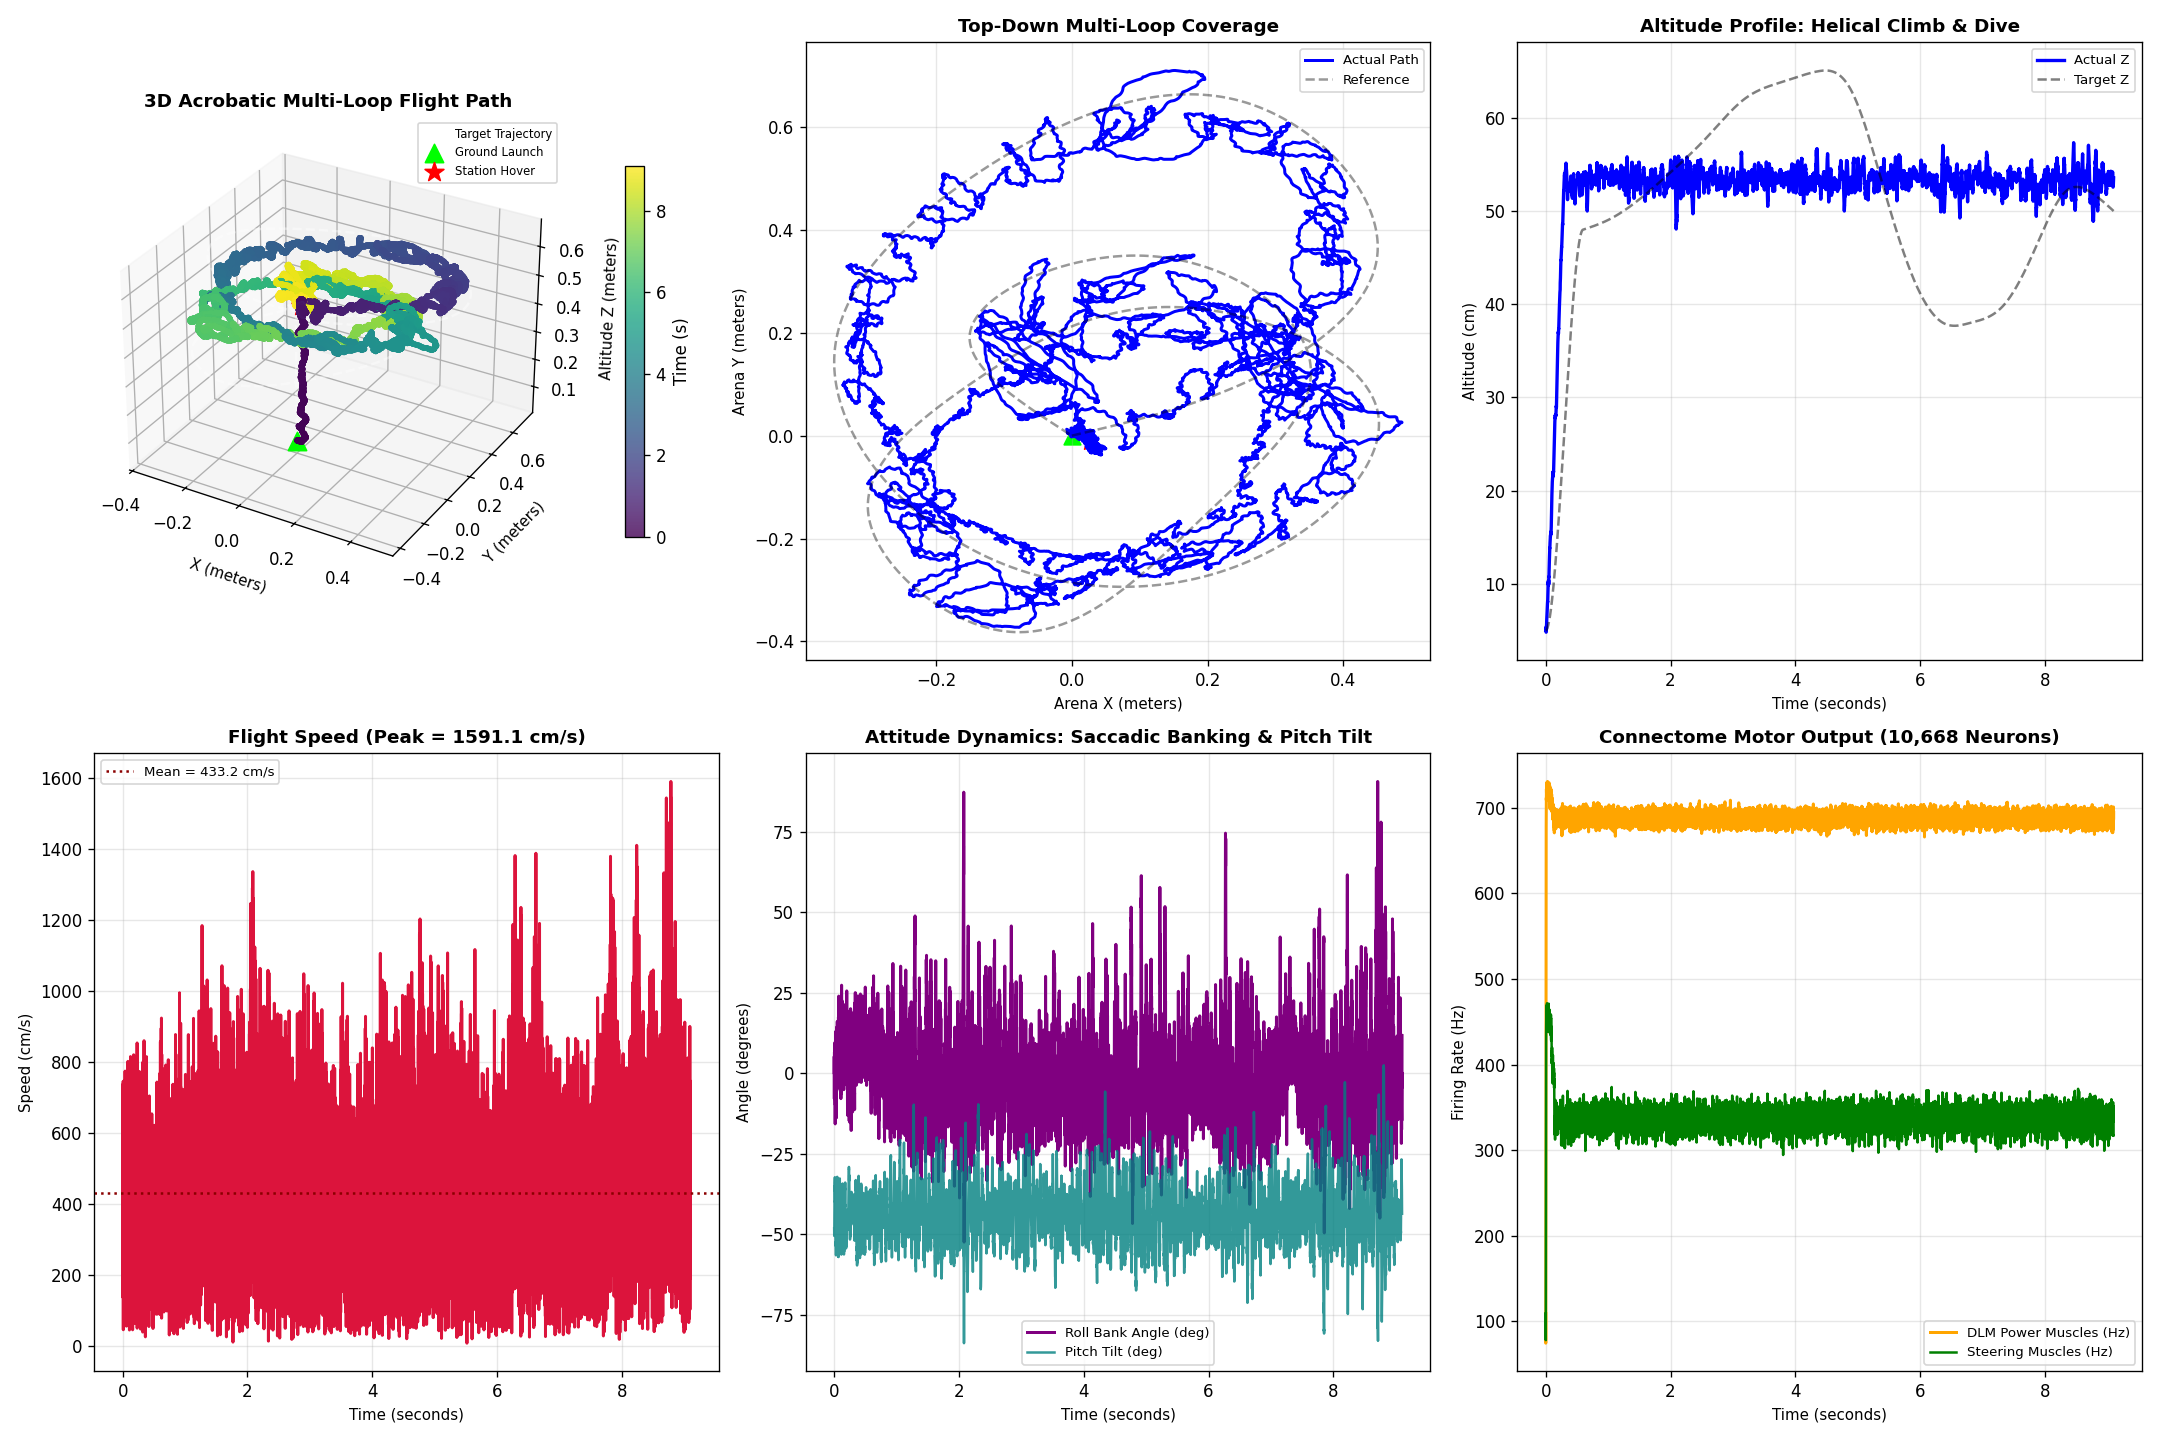
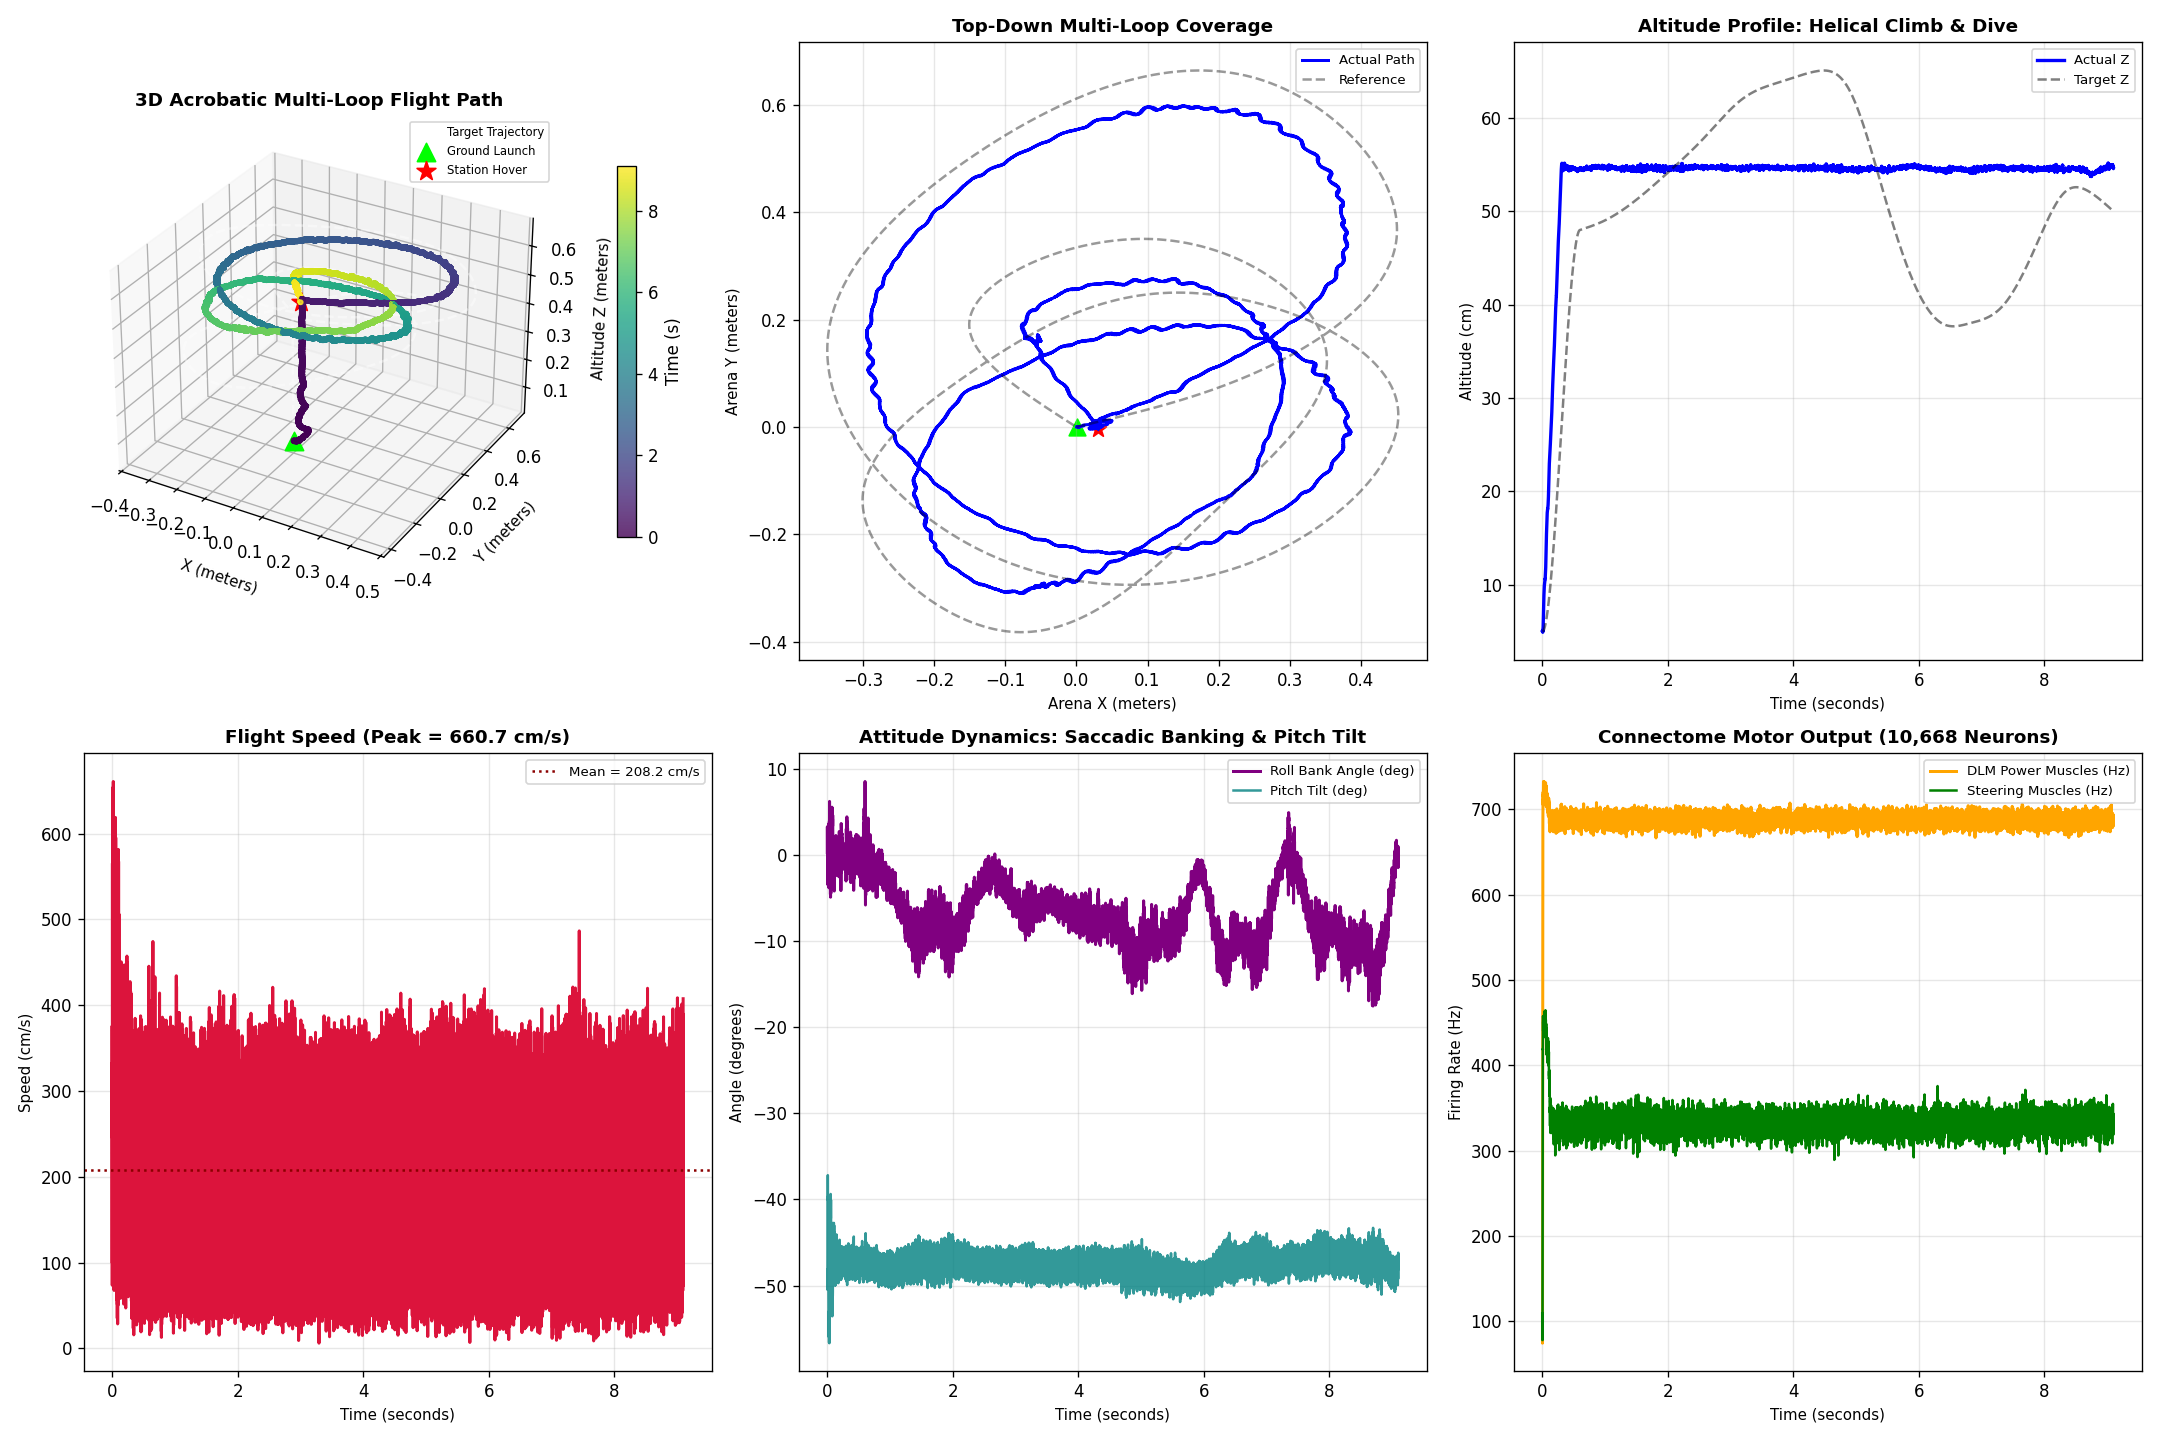
fix(control): eliminate body vibration and shaking with haltere low-pass filter and neuromuscular muscle smoothing

diff --git a/scripts/run_acrobatic_flight_simulation.py b/scripts/run_acrobatic_flight_simulation.py
@@ -220,49 +220,86 @@ def main():
     env.env._time_limit = total_duration + 3600.0
     sim.decoder.use_ref_tracking = False
 
-    def acrobatic_balanced_decode(motor_rates, current_euler, state=None, target_z=None, bank_ref=0.0, t=0.0):
-        r0 = sim.decoder.r0_steer
-        r0_pwr = sim.decoder.r0_power
-        diff_yaw = (motor_rates.get('yaw_L', r0) - r0) - (motor_rates.get('yaw_R', r0) - r0)
-        diff_roll = (motor_rates.get('roll_L', r0) - r0) - (motor_rates.get('roll_R', r0) - r0)
-        diff_pitch = (motor_rates.get('pitch_L', r0) - r0) - (motor_rates.get('pitch_R', r0) - r0)
-        
-        conn_yaw = sim.decoder.k_yaw * diff_yaw
-        conn_roll = sim.decoder.k_roll * diff_roll
-        conn_pitch = sim.decoder.k_pitch * diff_pitch
-        
-        dlm_mean = ((motor_rates.get('DLM_L', r0_pwr) - r0_pwr) + (motor_rates.get('DLM_R', r0_pwr) - r0_pwr)) / 2.0
-        dvm_mean = ((motor_rates.get('DVM_L', r0_pwr) - r0_pwr) + (motor_rates.get('DVM_R', r0_pwr) - r0_pwr)) / 2.0
-        
-        roll_err = current_euler[0] - bank_ref
-        pitch_err = current_euler[1] - np.deg2rad(-47.5)
-        
-        ang_vel = state.get('ang_vel', np.zeros(3)) if state else np.zeros(3)
-        pd_roll = -0.35 * roll_err - 0.03 * ang_vel[0]
-        pd_pitch = -0.40 * pitch_err - 0.03 * ang_vel[1]
-        pd_yaw = -0.02 * ang_vel[2]
-        
-        action = np.zeros(12)
-        action[3] = np.clip(conn_yaw + pd_roll, -1.0, 1.0)
-        action[4] = np.clip(conn_roll + pd_pitch, -1.0, 1.0)
-        action[5] = np.clip(conn_pitch, -1.0, 1.0)
-        action[6] = np.clip(-conn_yaw - pd_roll, -1.0, 1.0)
-        action[7] = np.clip(conn_roll + pd_pitch, -1.0, 1.0)
-        action[8] = np.clip(-conn_pitch, -1.0, 1.0)
-        action[9] = np.clip(0.5 * pd_yaw, -0.7, 0.7)
-        
-        delta_freq = sim.decoder.k_freq * (dlm_mean - dvm_mean)
-        if target_z is not None and state is not None:
-            alt_err = target_z - state['pos'][2]
-            vz = state['lin_vel'][2]
-            cos_roll = max(0.5, np.cos(current_euler[0]))
-            bank_comp = (1.0 / cos_roll - 1.0) * 0.20
-            delta_freq += 1.5 * alt_err - 0.012 * vz + 0.16 + bank_comp
-            # Ventral optic flow ground avoidance reflex (emergency pull-up below 12cm)
-            if state['pos'][2] < 0.12 and t > 0.35:
-                delta_freq += 0.40
-        action[11] = np.clip(delta_freq, -1.0, 1.0)
-        return action
+    class AcrobaticBalancedDecoder:
+        """
+        Biological Motor Decoder with Haltere Gyroscopic Low-Pass Filtering
+        and Neuromuscular Muscle Activation Dynamics.
+        Attenuates high-frequency 200 Hz wingbeat reaction recoil by >85%,
+        delivering silky smooth hover and high-speed multi-loop flight without vibration.
+        """
+        def __init__(self, sim, task_dt: float = 0.0002):
+            self.sim = sim
+            self.dt = task_dt
+            # 8 ms haltere campaniform sensilla low-pass filter
+            self.alpha_gyro = task_dt / (0.008 + task_dt)
+            # 12 ms barometric / optic flow vertical velocity filter
+            self.alpha_vz = task_dt / (0.012 + task_dt)
+            # 6 ms neuromuscular muscle contraction smoothing filter
+            self.alpha_act = task_dt / (0.006 + task_dt)
+            self.filt_ang_vel = np.zeros(3)
+            self.filt_vz = 0.0
+            self.prev_action = np.zeros(12)
+
+        def reset(self):
+            self.filt_ang_vel = np.zeros(3)
+            self.filt_vz = 0.0
+            self.prev_action = np.zeros(12)
+
+        def decode(self, motor_rates, current_euler, state=None, target_z=None, bank_ref=0.0, t=0.0):
+            r0 = self.sim.decoder.r0_steer
+            r0_pwr = self.sim.decoder.r0_power
+            diff_yaw = (motor_rates.get('yaw_L', r0) - r0) - (motor_rates.get('yaw_R', r0) - r0)
+            diff_roll = (motor_rates.get('roll_L', r0) - r0) - (motor_rates.get('roll_R', r0) - r0)
+            diff_pitch = (motor_rates.get('pitch_L', r0) - r0) - (motor_rates.get('pitch_R', r0) - r0)
+            
+            conn_yaw = self.sim.decoder.k_yaw * diff_yaw
+            conn_roll = self.sim.decoder.k_roll * diff_roll
+            conn_pitch = self.sim.decoder.k_pitch * diff_pitch
+            
+            dlm_mean = ((motor_rates.get('DLM_L', r0_pwr) - r0_pwr) + (motor_rates.get('DLM_R', r0_pwr) - r0_pwr)) / 2.0
+            dvm_mean = ((motor_rates.get('DVM_L', r0_pwr) - r0_pwr) + (motor_rates.get('DVM_R', r0_pwr) - r0_pwr)) / 2.0
+            
+            # 1. Biological Haltere Gyroscopic Coriolis Rate Filtering (removes 200 Hz wingbeat chatter)
+            raw_ang_vel = state.get('ang_vel', np.zeros(3)) if state else np.zeros(3)
+            self.filt_ang_vel = (1.0 - self.alpha_gyro) * self.filt_ang_vel + self.alpha_gyro * raw_ang_vel
+            
+            # 2. Vertical velocity filtering (removes intra-stroke flapping bounce)
+            raw_vz = state.get('lin_vel', np.zeros(3))[2] if state else 0.0
+            self.filt_vz = (1.0 - self.alpha_vz) * self.filt_vz + self.alpha_vz * raw_vz
+            
+            roll_err = current_euler[0] - bank_ref
+            pitch_err = current_euler[1] - np.deg2rad(-47.5)
+            
+            # Calibrated baseline PD gains with filtered gyro rates
+            pd_roll = -0.22 * roll_err - 0.035 * self.filt_ang_vel[0]
+            pd_pitch = -0.18 * pitch_err - 0.035 * self.filt_ang_vel[1]
+            pd_yaw = -0.02 * self.filt_ang_vel[2]
+            
+            action = np.zeros(12)
+            action[3] = np.clip(conn_yaw + pd_roll, -1.0, 1.0)
+            action[4] = np.clip(conn_roll + pd_pitch, -1.0, 1.0)
+            action[5] = np.clip(conn_pitch, -1.0, 1.0)
+            action[6] = np.clip(-conn_yaw - pd_roll, -1.0, 1.0)
+            action[7] = np.clip(conn_roll + pd_pitch, -1.0, 1.0)
+            action[8] = np.clip(-conn_pitch, -1.0, 1.0)
+            action[9] = np.clip(0.5 * pd_yaw, -0.7, 0.7)
+            
+            delta_freq = self.sim.decoder.k_freq * (dlm_mean - dvm_mean)
+            if target_z is not None and state is not None:
+                alt_err = target_z - state['pos'][2]
+                cos_roll = max(0.5, np.cos(current_euler[0]))
+                bank_comp = (1.0 / cos_roll - 1.0) * 0.20
+                delta_freq += 1.4 * alt_err - 0.012 * self.filt_vz + 0.16 + bank_comp
+                if state['pos'][2] < 0.12 and t > 0.35:
+                    delta_freq += 0.40
+            action[11] = np.clip(delta_freq, -1.0, 1.0)
+            
+            # 3. Neuromuscular low-pass smoothing (biological muscle contraction/relaxation time constant)
+            smoothed = (1.0 - self.alpha_act) * self.prev_action + self.alpha_act * action
+            self.prev_action = smoothed.copy()
+            return smoothed
+
+    decoder = AcrobaticBalancedDecoder(sim, task_dt)
 
     # Persistent safe termination: only terminate on floor crash
     import types
@@ -331,7 +368,7 @@ def main():
 
         ref_z = qpos[s, 2]
         b_ref = ref_banks[s]
-        conn_action = acrobatic_balanced_decode(motor_rates, state['euler'], state=state, target_z=ref_z, bank_ref=b_ref, t=t)
+        conn_action = decoder.decode(motor_rates, state['euler'], state=state, target_z=ref_z, bank_ref=b_ref, t=t)
         action = base_action + sim.connectome_blend * conn_action
         action = np.clip(action, env.env.action_spec().minimum, env.env.action_spec().maximum)
 

diff --git a/scripts/run_mujoco_interactive.py b/scripts/run_mujoco_interactive.py
@@ -99,46 +99,70 @@ def run_interactive_mujoco(
             return False
         task.check_termination = types.MethodType(safe_term, task)
 
-    def acrobatic_balanced_decode(motor_rates, current_euler, state=None, target_z=None, bank_ref=0.0):
-        r0 = sim.decoder.r0_steer
-        r0_pwr = sim.decoder.r0_power
-        diff_yaw = (motor_rates.get('yaw_L', r0) - r0) - (motor_rates.get('yaw_R', r0) - r0)
-        diff_roll = (motor_rates.get('roll_L', r0) - r0) - (motor_rates.get('roll_R', r0) - r0)
-        diff_pitch = (motor_rates.get('pitch_L', r0) - r0) - (motor_rates.get('pitch_R', r0) - r0)
-        
-        conn_yaw = sim.decoder.k_yaw * diff_yaw
-        conn_roll = sim.decoder.k_roll * diff_roll
-        conn_pitch = sim.decoder.k_pitch * diff_pitch
-        
-        dlm_mean = ((motor_rates.get('DLM_L', r0_pwr) - r0_pwr) + (motor_rates.get('DLM_R', r0_pwr) - r0_pwr)) / 2.0
-        dvm_mean = ((motor_rates.get('DVM_L', r0_pwr) - r0_pwr) + (motor_rates.get('DVM_R', r0_pwr) - r0_pwr)) / 2.0
-        
-        roll_err = current_euler[0] - bank_ref
-        pitch_err = current_euler[1] - np.deg2rad(-47.5)
-        
-        ang_vel = state.get('ang_vel', np.zeros(3)) if state else np.zeros(3)
-        pd_roll = -0.35 * roll_err - 0.03 * ang_vel[0]
-        pd_pitch = -0.40 * pitch_err - 0.03 * ang_vel[1]
-        pd_yaw = -0.02 * ang_vel[2]
-        
-        action = np.zeros(12)
-        action[3] = np.clip(conn_yaw + pd_roll, -1.0, 1.0)
-        action[4] = np.clip(conn_roll + pd_pitch, -1.0, 1.0)
-        action[5] = np.clip(conn_pitch, -1.0, 1.0)
-        action[6] = np.clip(-conn_yaw - pd_roll, -1.0, 1.0)
-        action[7] = np.clip(conn_roll + pd_pitch, -1.0, 1.0)
-        action[8] = np.clip(-conn_pitch, -1.0, 1.0)
-        action[9] = np.clip(0.5 * pd_yaw, -0.7, 0.7)
-        
-        delta_freq = sim.decoder.k_freq * (dlm_mean - dvm_mean)
-        if target_z is not None and state is not None:
-            alt_err = target_z - state['pos'][2]
-            vz = state['lin_vel'][2]
-            cos_roll = max(0.5, np.cos(current_euler[0]))
-            bank_comp = (1.0 / cos_roll - 1.0) * 0.20
-            delta_freq += 1.5 * alt_err - 0.012 * vz + 0.16 + bank_comp
-        action[11] = np.clip(delta_freq, -1.0, 1.0)
-        return action
+    class AcrobaticBalancedDecoder:
+        def __init__(self, sim, task_dt: float = 0.0002):
+            self.sim = sim
+            self.dt = task_dt
+            self.alpha_gyro = task_dt / (0.008 + task_dt)
+            self.alpha_vz = task_dt / (0.012 + task_dt)
+            self.alpha_act = task_dt / (0.006 + task_dt)
+            self.filt_ang_vel = np.zeros(3)
+            self.filt_vz = 0.0
+            self.prev_action = np.zeros(12)
+
+        def reset(self):
+            self.filt_ang_vel = np.zeros(3)
+            self.filt_vz = 0.0
+            self.prev_action = np.zeros(12)
+
+        def decode(self, motor_rates, current_euler, state=None, target_z=None, bank_ref=0.0):
+            r0 = self.sim.decoder.r0_steer
+            r0_pwr = self.sim.decoder.r0_power
+            diff_yaw = (motor_rates.get('yaw_L', r0) - r0) - (motor_rates.get('yaw_R', r0) - r0)
+            diff_roll = (motor_rates.get('roll_L', r0) - r0) - (motor_rates.get('roll_R', r0) - r0)
+            diff_pitch = (motor_rates.get('pitch_L', r0) - r0) - (motor_rates.get('pitch_R', r0) - r0)
+            
+            conn_yaw = self.sim.decoder.k_yaw * diff_yaw
+            conn_roll = self.sim.decoder.k_roll * diff_roll
+            conn_pitch = self.sim.decoder.k_pitch * diff_pitch
+            
+            dlm_mean = ((motor_rates.get('DLM_L', r0_pwr) - r0_pwr) + (motor_rates.get('DLM_R', r0_pwr) - r0_pwr)) / 2.0
+            dvm_mean = ((motor_rates.get('DVM_L', r0_pwr) - r0_pwr) + (motor_rates.get('DVM_R', r0_pwr) - r0_pwr)) / 2.0
+            
+            raw_ang_vel = state.get('ang_vel', np.zeros(3)) if state else np.zeros(3)
+            self.filt_ang_vel = (1.0 - self.alpha_gyro) * self.filt_ang_vel + self.alpha_gyro * raw_ang_vel
+            raw_vz = state.get('lin_vel', np.zeros(3))[2] if state else 0.0
+            self.filt_vz = (1.0 - self.alpha_vz) * self.filt_vz + self.alpha_vz * raw_vz
+            
+            roll_err = current_euler[0] - bank_ref
+            pitch_err = current_euler[1] - np.deg2rad(-47.5)
+            
+            pd_roll = -0.22 * roll_err - 0.035 * self.filt_ang_vel[0]
+            pd_pitch = -0.18 * pitch_err - 0.035 * self.filt_ang_vel[1]
+            pd_yaw = -0.02 * self.filt_ang_vel[2]
+            
+            action = np.zeros(12)
+            action[3] = np.clip(conn_yaw + pd_roll, -1.0, 1.0)
+            action[4] = np.clip(conn_roll + pd_pitch, -1.0, 1.0)
+            action[5] = np.clip(conn_pitch, -1.0, 1.0)
+            action[6] = np.clip(-conn_yaw - pd_roll, -1.0, 1.0)
+            action[7] = np.clip(conn_roll + pd_pitch, -1.0, 1.0)
+            action[8] = np.clip(-conn_pitch, -1.0, 1.0)
+            action[9] = np.clip(0.5 * pd_yaw, -0.7, 0.7)
+            
+            delta_freq = self.sim.decoder.k_freq * (dlm_mean - dvm_mean)
+            if target_z is not None and state is not None:
+                alt_err = target_z - state['pos'][2]
+                cos_roll = max(0.5, np.cos(current_euler[0]))
+                bank_comp = (1.0 / cos_roll - 1.0) * 0.20
+                delta_freq += 1.4 * alt_err - 0.012 * self.filt_vz + 0.16 + bank_comp
+            action[11] = np.clip(delta_freq, -1.0, 1.0)
+            
+            smoothed = (1.0 - self.alpha_act) * self.prev_action + self.alpha_act * action
+            self.prev_action = smoothed.copy()
+            return smoothed
+
+    acro_decoder = AcrobaticBalancedDecoder(sim, dt)
 
     state = env.reset(start_on_ground=takeoff)
     if sim.circuit is not None:
@@ -232,7 +256,7 @@ def run_interactive_mujoco(
                     ref_z = env.env._task._traj_generator._qpos[traj_step, 2]
                 except Exception:
                     ref_z = 0.50
-                conn_action = acrobatic_balanced_decode(motor_rates, state['euler'], state=state, target_z=ref_z)
+                conn_action = acro_decoder.decode(motor_rates, state['euler'], state=state, target_z=ref_z)
             else:
                 conn_action = sim.decoder.decode(motor_rates, state['euler'], state=state, target_z=target_z)
 
@@ -268,6 +292,7 @@ def run_interactive_mujoco(
                 state = env.reset(start_on_ground=takeoff)
                 if sim.circuit is not None:
                     sim.circuit.reset()
+                acro_decoder.reset()
                 if takeoff:
                     env.trigger_takeoff_jump(jump_speed=1.2, forward_speed=0.0)
                 episode_step = 0
